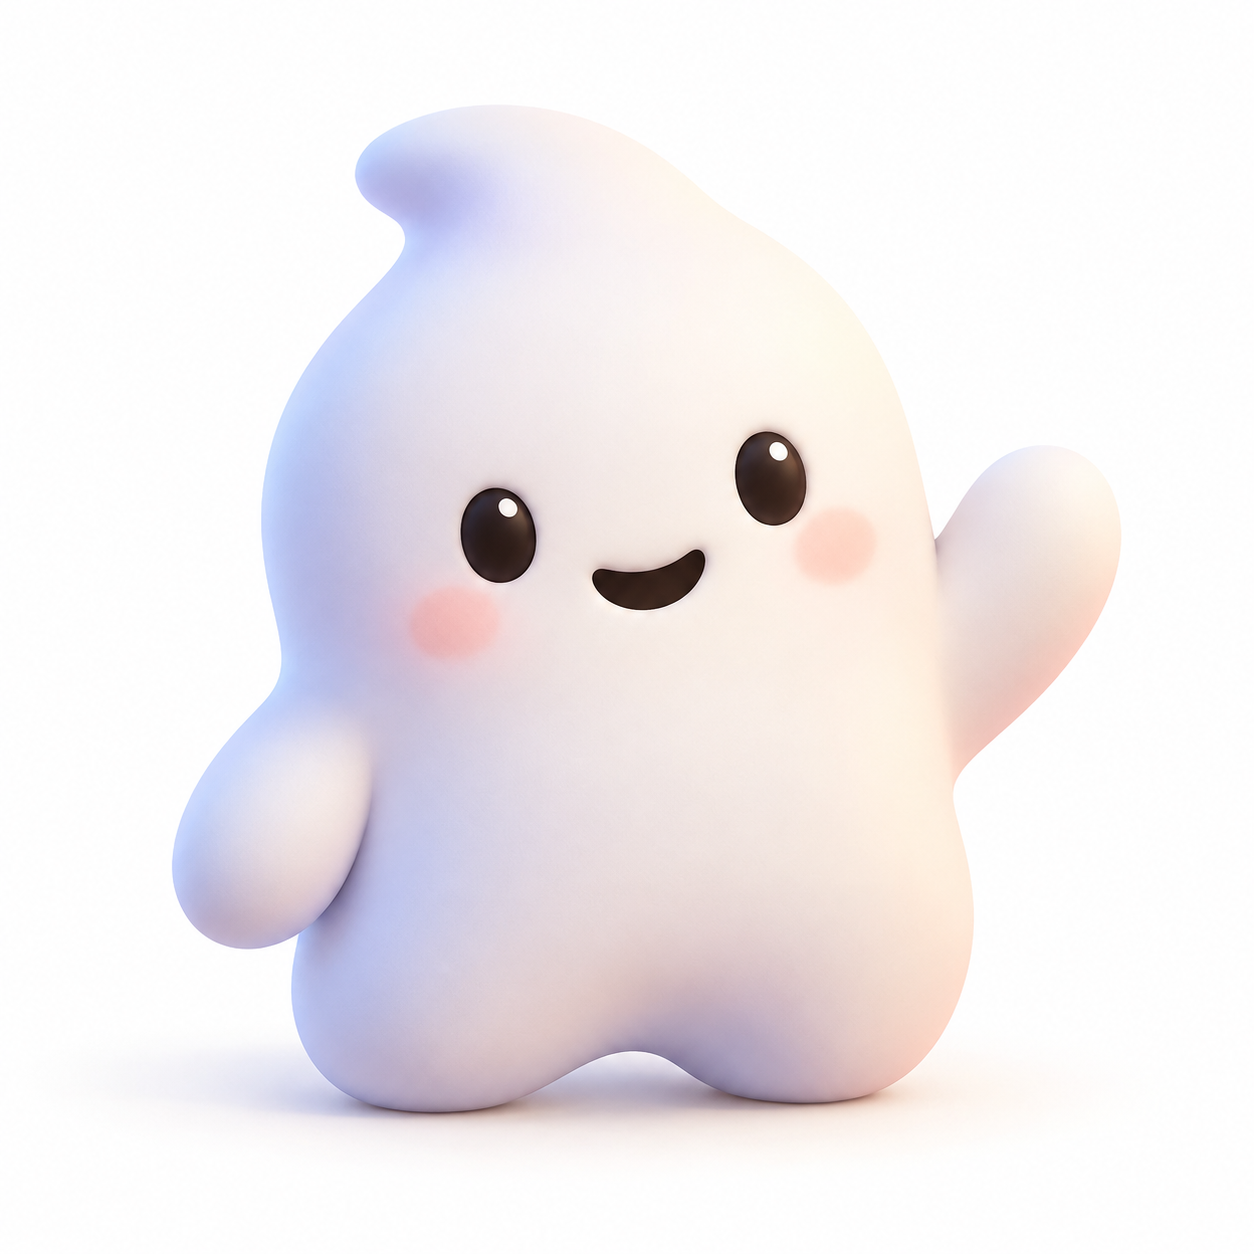
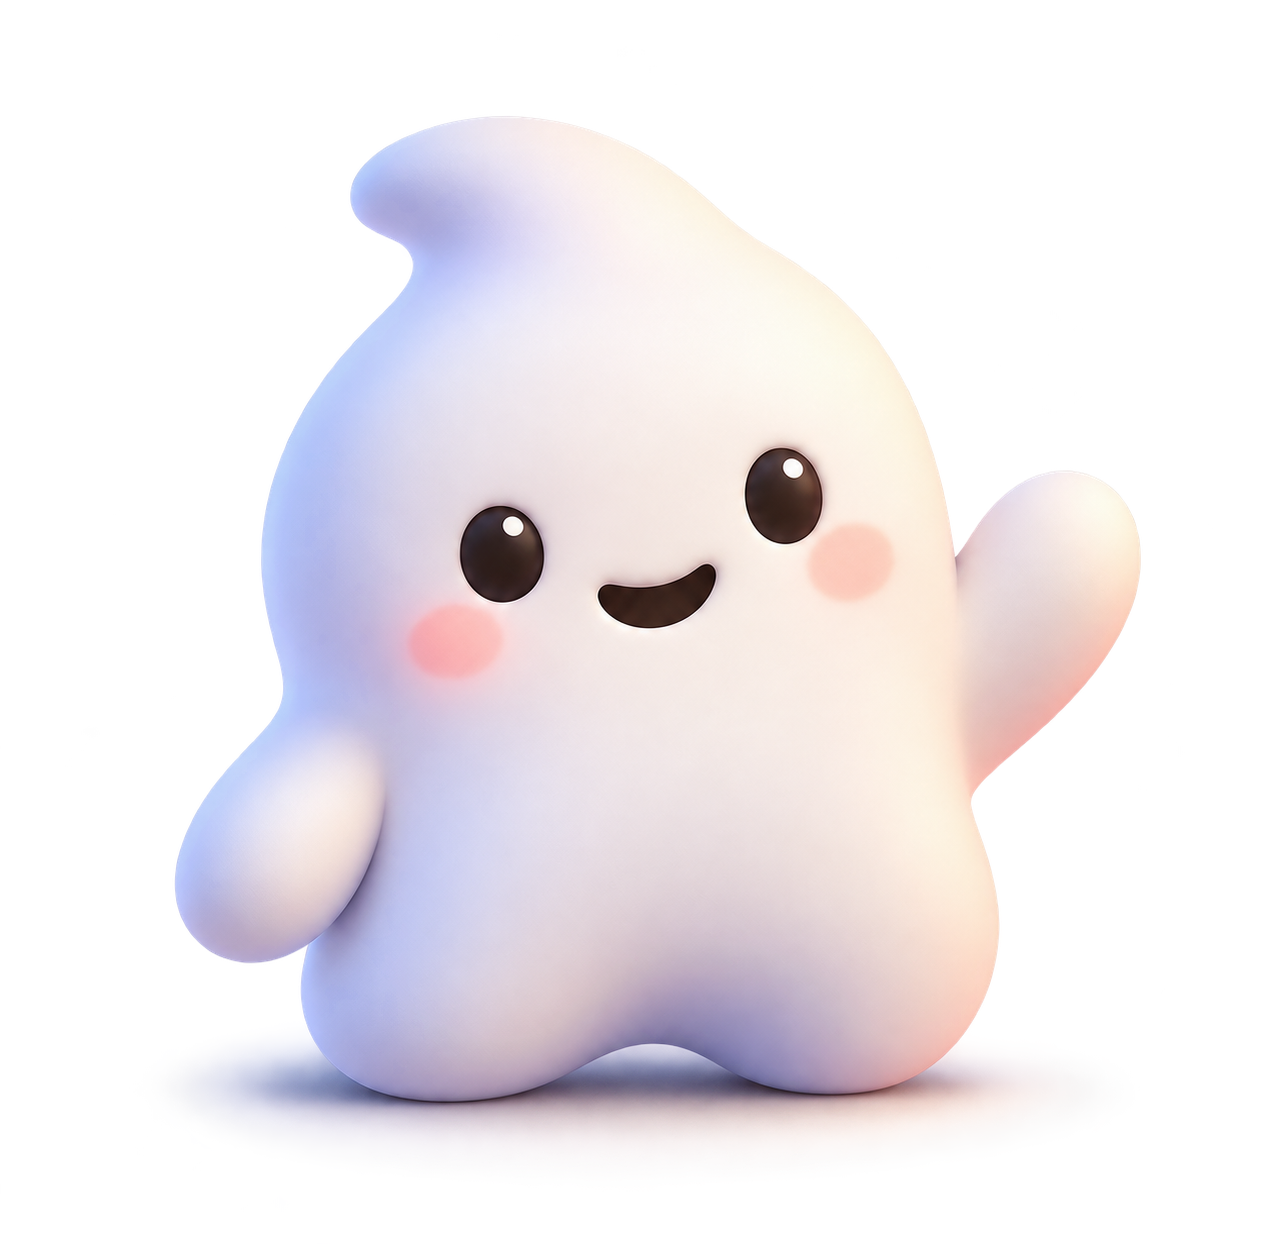
mascot trasnparent update v2

diff --git a/src/routes/blog.tsx b/src/routes/blog.tsx
@@ -12,6 +12,7 @@ import {
   Workflow,
 } from "lucide-react";
 import { Footer } from "../components/Footer";
+import { Nav } from "../components/Nav";
 
 export const Route = createFileRoute("/blog")({
   head: () => ({
@@ -40,54 +41,7 @@ const fadeUp = {
   }),
 };
 
-function Nav() {
-  return (
-    <motion.header
-      initial={{ opacity: 0, y: -10 }}
-      animate={{ opacity: 1, y: 0 }}
-      transition={{ duration: 0.6 }}
-      className="sticky top-0 z-50 backdrop-blur-md bg-background/80 border-b border-border/60"
-    >
-      <nav className="max-w-7xl mx-auto px-6 h-16 flex items-center justify-between">
-        <a
-          href="/"
-          className="flex items-center gap-1.5 font-semibold text-foreground tracking-tight text-xl"
-        >
-          <img src="/wispsmascot.png" alt="Wisps logo" className="h-9 w-9 object-contain" />
-          Wisps
-        </a>
-        <div className="hidden md:flex items-center gap-10 text-sm text-foreground/80">
-          <a href="/#pricing" className="hover:text-foreground transition-colors">
-            Pricing
-          </a>
-          <a href="/enterprise" className="hover:text-foreground transition-colors">
-            Enterprise
-          </a>
-          <a href="/for-agents" className="hover:text-foreground transition-colors">
-            For Agents
-          </a>
-          <a href="/about" className="hover:text-foreground transition-colors">
-            About
-          </a>
-        </div>
-        <div className="flex items-center gap-5">
-          <a
-            href="#"
-            className="text-sm text-foreground/80 hover:text-foreground transition-colors"
-          >
-            Login
-          </a>
-          <a
-            href={`sms:${import.meta.env.VITE_LINQ_NUMBER || "+13127195463"}?body=Hi`}
-            className="inline-flex items-center rounded-lg bg-foreground text-background px-4 py-2 text-sm font-medium hover:opacity-90 transition-opacity"
-          >
-            Get Started
-          </a>
-        </div>
-      </nav>
-    </motion.header>
-  );
-}
+
 
 function SectionShell({ children }: { children: ReactNode }) {
   return <section className="max-w-7xl mx-auto px-6">{children}</section>;

diff --git a/src/routes/index.tsx b/src/routes/index.tsx
@@ -1578,6 +1578,25 @@ function Features() {
   return (
     <section id="features" className="relative py-28 bg-textured-paper">
       <div className="max-w-7xl mx-auto px-6">
+        {/* Centered section heading */}
+        <motion.div
+          initial={{ opacity: 0, y: 20 }}
+          whileInView={{ opacity: 1, y: 0 }}
+          viewport={{ once: true, margin: "-100px" }}
+          transition={{ duration: 0.7 }}
+          className="text-center mb-16"
+        >
+          <h2
+            className="text-3xl md:text-4xl font-medium tracking-tight text-foreground"
+            style={{ fontFamily: "'Playfair Display', serif" }}
+          >
+            Meet your mini wisps.
+          </h2>
+          <p className="mt-3 text-base text-muted-foreground leading-relaxed">
+            A team of agents that thinks ahead.
+          </p>
+        </motion.div>
+
         <div
           className="grid md:grid-cols-12 gap-12 lg:gap-16 items-stretch"
           onMouseEnter={() => setIsPaused(true)}
@@ -1585,21 +1604,6 @@ function Features() {
         >
           {/* Left side - Title and Feature list */}
           <div className="md:col-span-5 flex flex-col h-full justify-start py-2">
-            <motion.div
-              initial={{ opacity: 0, y: 20 }}
-              whileInView={{ opacity: 1, y: 0 }}
-              viewport={{ once: true, margin: "-100px" }}
-              transition={{ duration: 0.7 }}
-              className="mb-6"
-            >
-              <h2
-                className="text-3xl md:text-4xl font-medium tracking-tight text-foreground"
-                style={{ fontFamily: "'Playfair Display', serif" }}
-              >
-                Agent that thinks ahead.
-              </h2>
-            </motion.div>
-
             <div className="flex flex-col">
               {features.map((f, i) => {
                 const isActive = activeFeature === i;

diff --git a/src/components/Nav.tsx b/src/components/Nav.tsx
@@ -19,7 +19,7 @@ export function Nav() {
           <div className="flex items-center">
             <a
               href="/login"
-              className="text-[15px] font-medium text-foreground hover:opacity-80 transition-opacity bg-white/40 dark:bg-black/20 hover:bg-white/60 px-5 py-2.5 rounded-full backdrop-blur-md"
+              className="text-[15px] font-medium text-foreground hover:opacity-80 transition-opacity bg-white/40 dark:bg-black/20 hover:bg-white/60 px-5 py-2.5 rounded-full backdrop-blur-md border border-black/10 dark:border-white/10"
             >
               Login
             </a>
@@ -40,7 +40,7 @@ export function Nav() {
           <div className="ml-auto flex items-center">
             <a
               href={`sms:${import.meta.env.VITE_LINQ_NUMBER || "+13127195463"}?body=Hi`}
-              className="inline-flex items-center gap-2.5 rounded-full bg-white/40 dark:bg-black/20 hover:bg-white/60 text-foreground backdrop-blur-md px-7 py-3 text-[16px] font-medium transition-all cursor-pointer shadow-sm hover:scale-105"
+              className="inline-flex items-center gap-2.5 rounded-full bg-white/40 dark:bg-black/20 hover:bg-white/60 text-foreground backdrop-blur-md px-7 py-3 text-[16px] font-medium transition-all cursor-pointer shadow-sm hover:scale-105 border border-black/10 dark:border-white/10"
             >
               <div className="bg-white rounded-full p-0.5 shadow-sm">
                 <img src="/imessage.svg" className="w-5 h-5 object-contain" alt="iMessage" />

diff --git a/src/routes/about.tsx b/src/routes/about.tsx
@@ -33,7 +33,7 @@ const fadeUp = {
 
 function Hero() {
   return (
-    <section className="relative py-12 md:py-16">
+    <section className="relative pt-32 pb-12 md:pt-40 md:pb-16">
       <div className="relative max-w-4xl mx-auto px-6 text-center">
         <motion.h1
           variants={fadeUp}

diff --git a/src/styles.css b/src/styles.css
@@ -172,3 +172,12 @@
   background-color: var(--color-background);
   background-image: none;
 }
+
+/* Mascot: blend white bg into the page — invisible on light backgrounds */
+img[src*="wispsmascot"] {
+  mix-blend-mode: multiply;
+}
+
+.dark img[src*="wispsmascot"] {
+  mix-blend-mode: normal;
+}
